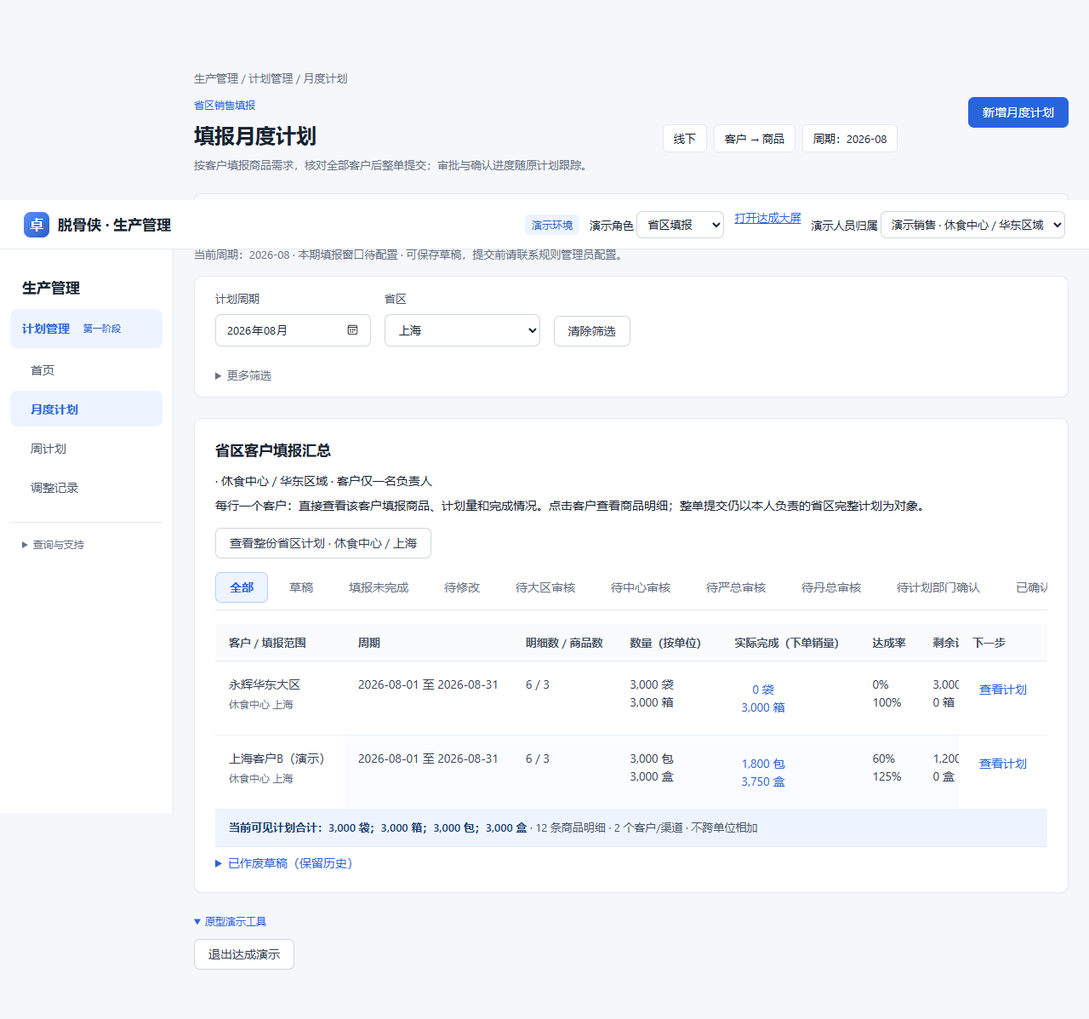
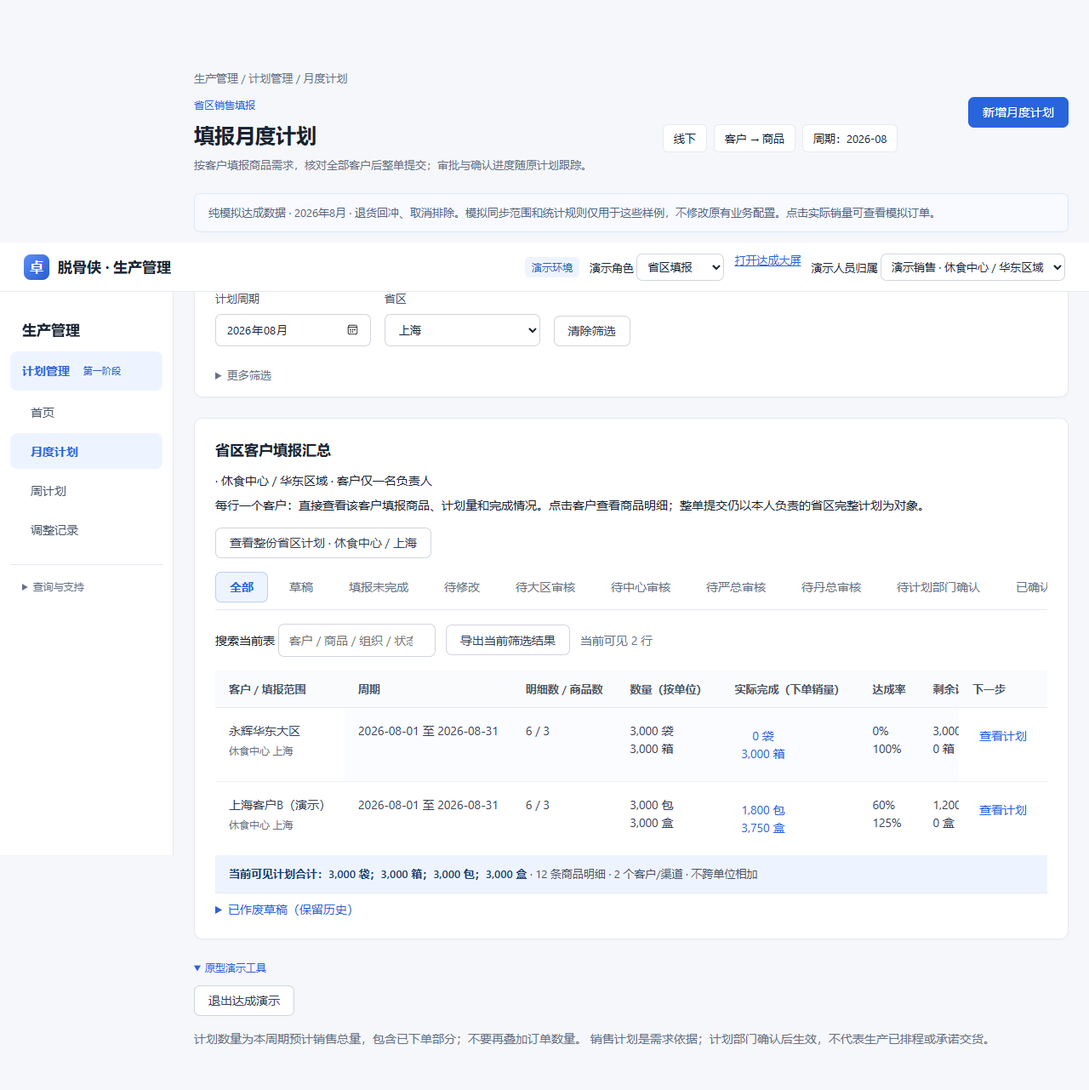
Auto sync 2026-10-14 08:39:49

diff --git a/09-设计与原型/销售计划管理/计划流程工作台.js b/09-设计与原型/销售计划管理/计划流程工作台.js
@@ -11,12 +11,12 @@
  function state(g){return FilingUX.state(g);}
  function customerSheets(xs){const map=new Map();xs.forEach(p=>{const k=sheetKey(p)+'|'+(p.business==='offline'?p.customer:p.channel);if(!map.has(k))map.set(k,{key:sheetKey(p),rows:[],name:p.business==='offline'?p.customer:p.channel,start:p.start,end:p.end,center:p.center,province:p.province,customerOnly:p.business==='offline'});map.get(k).rows.push(p);});return [...map.values()];}
  function planSheets(a){const d=a.data(),content=document.getElementById('content'),gs=customerSheets(d.plans.filter(p=>{const f=a.filters();return (f.achievementDemo?!!p.achievementDemo:!p.achievementDemo)&&(!f.demoCase||p.id===f.demoCase)&&PlanBusiness.canView(d,a.role(),p)&&p.business===f.business&&p.kind===f.kind&&(f.kind==='month'?p.start.slice(0,7)===f.cycle:p.start===f.cycle)&&['center','area','province','channel'].every(k=>f[k]==='all'||p[k]===f[k]);})),role=a.role();content.querySelectorAll(':scope>.card:not(.filters):not(.business-switch),:scope>.task-counts').forEach(e=>e.remove());content.querySelector('[data-filter=unit]')?.closest('label')?.remove();const meta=content.querySelector('.task-context-meta span:last-child');if(meta)meta.textContent='单位：按明细分别统计';const host=document.createElement('section');host.className='card';host.id='planSheets';host.innerHTML='<h2>'+(a.filters().business==='online'?'渠道填报汇总':'省区客户填报汇总')+'</h2><p>'+(a.filters().business==='online'?'每行一个渠道，点击查看该渠道的商品计划明细。':'每行一个客户：直接查看该客户填报商品、计划量和完成情况。点击客户查看商品明细；整单提交仍以本人负责的省区完整计划为对象。')+'</p><div class="summary-tabs">'+['全部','草稿','填报未完成','待修改','待大区审核','待中心审核','待严总审核','待丹总审核','待计划部门确认','已确认生效','已归档'].map((s,i)=>`<button data-sheet-status="${s}" aria-pressed="${i===0}">${s}</button>`).join('')+'</div><div class="table-wrap"><table><thead><tr><th>客户 / 填报范围</th><th>周期</th><th>明细数 / 商品数</th><th>数量（按单位）</th>'+PlanAchievement.headings()+'<th>状态</th><th>检查提醒</th><th>下一步</th></tr></thead><tbody>'+gs.map((g,i)=>{const totals=new Map();g.rows.forEach(p=>totals.set(p.unit,(totals.get(p.unit)||0)+p.qty));return `<tr data-sheet-row="${i}"><td>${E(g.name)}<small>${E(g.center||'线上渠道')} ${E(g.province||'')}</small></td><td>${g.start} 至 ${g.end}</td><td>${g.rows.length} / ${new Set(g.rows.map(p=>p.product)).size}</td><td>${[...totals].map(([u,q])=>num(q)+' '+E(u)).join('<br>')}</td>${PlanAchievement.cells(d,g.rows)}<td>${state(g)}<small>${E(FilingUX.pendingLabel(d,g.rows))}</small><small>${[...new Set(g.rows.map(p=>SalesPlan.status(d,p)))].map(s=>E(s)+' '+g.rows.filter(p=>SalesPlan.status(d,p)===s).length+'条').join(' / ')}</small></td><td>${g.rows.filter(p=>issue(d,p).length).length} 条需检查</td><td><button data-sheet="${i}">${FilingUX.next(g)}</button></td></tr>`;}).join('')+' '+(!gs.length?'<tr><td colspan="10" class="empty">本期暂无计划单，请新增计划。</td></tr>':'')+'</tbody></table></div>';content.append(host);host.querySelectorAll('[data-sheet-status]').forEach(b=>b.onclick=()=>{host.querySelectorAll('[data-sheet-status]').forEach(t=>t.setAttribute('aria-pressed',String(t===b)));host.querySelectorAll('[data-sheet-row]').forEach(tr=>tr.hidden=b.dataset.sheetStatus!=='全部'&&state(gs[Number(tr.dataset.sheetRow)])!==b.dataset.sheetStatus);});host.querySelectorAll('[data-sheet]').forEach(b=>b.onclick=()=>openSheet(a,gs[Number(b.dataset.sheet)]));FillQuantity.table(host.querySelector('table'),gs,'tr[data-sheet-row]');}
- function openSheet(a,g){const d=a.data(),ready=FilingUX.readiness(d,g),withdrawError=FilingUX.withdrawReason(d,g),editable=g.rows.filter(p=>(p.stage<0||p.rejected)&&!p.archived&&!PlanChange.pending(d,p));a.modal('计划单 · '+g.name,`<p>${g.start} 至 ${g.end} · ${state(g)}。修改只影响选中的明细；重新提交的驳回明细从首级重新审核，既有审批记录保留。</p><div class="row">${g.customerOnly?'<button id="wholeProvinceSheet" class="primary">查看整份省区计划 / 提交</button>':''}<button id="sheetSubmit" ${g.customerOnly||!editable.length||ready.errors.length?'disabled':''}>检查并提交 ${editable.length} 条待填明细</button><button id="sheetWithdraw" ${g.customerOnly||withdrawError?'disabled':''}>撤回整份计划</button></div><p>${g.customerOnly?'客户层只查看和编辑；整单操作请进入省区计划。':'应填 '+ready.customers.length+' · 已填 '+ready.filled+' · 无需求 '+ready.zero+' · 未填 '+ready.missing}</p><p class="notice">${E(ready.errors.join('；')||'提交检查通过，仍将按原有规则校验完整批次。')}</p><p>${E(withdrawError||'尚未审核时可撤回整份计划')}</p>${!g.customerOnly&&ready.errors.length?'<p>恢复办法：未填客户请返回列表新增计划或登记无需求；清单、归属或窗口问题请联系规则管理员；商品/数量错误请在下表修改。</p>':''}<p>${E(PlanOperations.basis)} ${E(PlanOperations.boundary)}</p><h3>检查与驳回指引</h3><div class="table-wrap"><table><thead><tr><th>明细</th><th>客户 / 渠道</th><th>商品 / 计划量</th>${PlanAchievement.headings()}<th>检查提醒</th><th>驳回意见 / 修改要求</th><th>操作</th></tr></thead><tbody>${g.rows.map(p=>`<tr><td>${E(p.id)}</td><td>${E(p.business==='online'?p.channel:p.customer)}</td><td>${E(SalesPlan.productName(d,p.product))} · ${p.qty} ${E(p.unit)}</td>${PlanAchievement.cells(d,[p])}<td>${E(issue(d,p).join('；')||'未发现提示项')}</td><td>${E(p.history.filter(h=>/驳回/.test(h.action)).at(-1)?.opinion||'—')}</td><td><button data-sheet-detail="${E(p.id)}">详情</button>${completed(p)&&!p.archived&&!p.productionLocked&&!PlanChange.pending(d,p)?`<button data-sheet-adjust="${E(p.id)}">申请数量调整</button>`:''}${p.stage>=0&&!p.rejected&&PlanChange.eligible(p)&&!p.productionLocked&&!PlanChange.pending(d,p)?`<button data-sheet-change="${E(p.id)}">开始前内容变更</button>`:''}${editable.includes(p)?`<button data-sheet-edit="${E(p.id)}">${p.rejected?'按要求修改':'编辑草稿'}</button>`:''}</td></tr>`).join('')}</tbody></table></div><p>已进入上级审核的内容不能直接修改，请使用开始前内容变更；已确认的数量变动进入计划部门确认。</p>`);const dialog=document.getElementById('dialog');FillQuantity.table(dialog.querySelector('table'),g.rows,'tr');FilingUX.bindDrafts(a,dialog);if(g.customerOnly){document.getElementById('sheetSubmit').hidden=true;document.getElementById('sheetWithdraw').hidden=true;}document.getElementById('wholeProvinceSheet')?.addEventListener('click',()=>openSheet(a,{...g,customerOnly:false,name:g.center+' / '+g.province,rows:d.plans.filter(p=>sheetKey(p)===g.key&&PlanBusiness.canView(d,a.role(),p)&&!!p.achievementDemo===!!g.rows[0].achievementDemo)}));dialog.querySelectorAll('[data-sheet-detail]').forEach(b=>b.onclick=()=>a.action('detail',b.dataset.sheetDetail));dialog.querySelectorAll('[data-sheet-edit]').forEach(b=>b.onclick=()=>SalesUX.batch(a,{edit:d.plans.find(p=>p.id===b.dataset.sheetEdit)}));dialog.querySelectorAll('[data-sheet-adjust]').forEach(b=>b.onclick=()=>a.action('adjust',b.dataset.sheetAdjust));dialog.querySelectorAll('[data-sheet-change]').forEach(b=>b.onclick=()=>PlanChange.open(a,d.plans.find(p=>p.id===b.dataset.sheetChange)));document.getElementById('sheetSubmit').onclick=()=>{if(g.customerOnly)return a.message('请进入整份省区计划，核对所有客户后整单提交。');const releaseError=BusinessRelease.submitGuard(d,g.rows[0]);if(releaseError)return a.message(releaseError);const errors=editable.map(p=>{const pr=d.products.find(q=>q.id===p.product);return PlanBusiness.fillGuard(d,a.role(),p)||(!['可填报','即将截止'].includes(PlanBusiness.periodState(d,p.kind,p.start))?'本期窗口未开放':'')||(!pr?.enabled||pr.from>p.start||pr.to&&pr.to<p.end?'商品不在有效范围':'')||(pr.scope!=='全部'&&pr.scope!==(p.business==='online'?'线上':'线下')?'商品不适用当前业务':'')||(!Number.isInteger(p.qty)||p.qty<=0?'数量必须为正整数':'');}).filter(Boolean);if(errors.length)return a.message(errors[0]+'，原计划保留。');const backup=structuredClone(d);editable.forEach(p=>{p.stage=0;p.rejected=false;a.log(p,'计划单提交首级审核',{sheetKey:g.key,qty:p.qty});});const sealError=BusinessRelease.seal(d,g.rows[0],a.role());if(sealError){Object.assign(d,backup);return a.message(sealError);}if(!a.persist()){Object.assign(d,backup);return;}dialog.close();a.render();a.message('计划单已提交，等待首级审核。');};document.getElementById('sheetWithdraw').onclick=()=>{if(g.customerOnly)return a.message('请从整份省区计划撤回，不能只撤回一个客户。');const withdrawalError=FilingUX.withdrawReason(d,g);if(withdrawalError)return a.message(withdrawalError);if(g.rows.some(p=>p.stage>0&&!p.rejected))return a.message('整份计划已有审核结果，不能只撤回部分明细。');const xs=g.rows.filter(p=>p.stage===0&&!p.rejected&&!PlanChange.pending(d,p)),backup=structuredClone(d);xs.forEach(p=>{p.stage=-1;a.log(p,'撤回尚未审核计划单明细');});for(const b of d.submissionBatches.filter(b=>xs.some(p=>p.submissionBatchId===b.id)&&b.status==='submitted'))b.status='withdrawn';if(!a.persist()){Object.assign(d,backup);return;}dialog.close();a.render();};}
+ function openSheet(a,g){const d=a.data(),ready=FilingUX.readiness(d,g),withdrawError=FilingUX.withdrawReason(d,g),editable=g.rows.filter(p=>(p.stage<0||p.rejected)&&!p.archived&&!PlanChange.pending(d,p));a.modal('计划单 · '+g.name,`<p>${g.start} 至 ${g.end} · ${state(g)}。修改只影响选中的明细；重新提交的驳回明细从首级重新审核，既有审批记录保留。</p><div class="row">${g.customerOnly?'<button id="wholeProvinceSheet" class="primary">查看整份省区计划 / 提交</button>':''}<button id="sheetSubmit" ${g.customerOnly||!editable.length||ready.errors.length?'disabled':''}>检查并提交 ${editable.length} 条待填明细</button><button id="sheetWithdraw" ${g.customerOnly||withdrawError?'disabled':''}>撤回整份计划</button></div><p>${g.customerOnly?'客户层只查看和编辑；整单操作请进入省区计划。':'应填 '+ready.customers.length+' · 已填 '+ready.filled+' · 无需求 '+ready.zero+' · 未填 '+ready.missing}</p><p class="notice">${E(ready.errors.join('；')||'提交检查通过，仍将按原有规则校验完整批次。')}</p><p>${E(withdrawError||'尚未审核时可撤回整份计划')}</p>${!g.customerOnly&&ready.errors.length?'<p>恢复办法：未填客户请返回列表新增计划或登记无需求；清单、归属或窗口问题请联系规则管理员；商品/数量错误请在下表修改。</p>':''}<p>${E(PlanOperations.basis)} ${E(PlanOperations.boundary)}</p><h3>检查与驳回指引</h3><div class="table-wrap"><table><thead><tr><th>明细</th><th>客户 / 渠道</th><th>商品 / 计划量</th>${PlanAchievement.headings()}<th>检查提醒</th><th>驳回意见 / 修改要求</th><th>操作</th></tr></thead><tbody>${g.rows.map(p=>`<tr><td>${E(p.id)}</td><td>${E(p.business==='online'?p.channel:p.customer)}</td><td>${E(SalesPlan.productName(d,p.product))} · ${p.qty} ${E(p.unit)}</td>${PlanAchievement.cells(d,[p])}<td>${E(issue(d,p).join('；')||'未发现提示项')}</td><td>${E((()=>{const h=p.history.filter(h=>/驳回/.test(h.action)).at(-1);return h?(h.by+' · '+h.at+' · '+(h.opinion||'历史记录缺少意见，请联系退回人')):'—';})())}</td><td><button data-sheet-detail="${E(p.id)}">详情</button>${completed(p)&&!p.archived&&!p.productionLocked&&!PlanChange.pending(d,p)?`<button data-sheet-adjust="${E(p.id)}">申请数量调整</button>`:''}${p.stage>=0&&!p.rejected&&PlanChange.eligible(p)&&!p.productionLocked&&!PlanChange.pending(d,p)?`<button data-sheet-change="${E(p.id)}">开始前内容变更</button>`:''}${editable.includes(p)?`<button data-sheet-edit="${E(p.id)}">${p.rejected?'按要求修改':'编辑草稿'}</button>`:''}</td></tr>`).join('')}</tbody></table></div><p>已进入上级审核的内容不能直接修改，请使用开始前内容变更；已确认的数量变动进入计划部门确认。</p>`);const dialog=document.getElementById('dialog');FillQuantity.table(dialog.querySelector('table'),g.rows,'tr');FilingUX.bindDrafts(a,dialog);if(g.customerOnly){document.getElementById('sheetSubmit').hidden=true;document.getElementById('sheetWithdraw').hidden=true;}document.getElementById('wholeProvinceSheet')?.addEventListener('click',()=>openSheet(a,{...g,customerOnly:false,name:g.center+' / '+g.province,rows:d.plans.filter(p=>sheetKey(p)===g.key&&PlanBusiness.canView(d,a.role(),p)&&!!p.achievementDemo===!!g.rows[0].achievementDemo)}));dialog.querySelectorAll('[data-sheet-detail]').forEach(b=>b.onclick=()=>a.action('detail',b.dataset.sheetDetail));dialog.querySelectorAll('[data-sheet-edit]').forEach(b=>b.onclick=()=>SalesUX.batch(a,{edit:d.plans.find(p=>p.id===b.dataset.sheetEdit)}));dialog.querySelectorAll('[data-sheet-adjust]').forEach(b=>b.onclick=()=>a.action('adjust',b.dataset.sheetAdjust));dialog.querySelectorAll('[data-sheet-change]').forEach(b=>b.onclick=()=>PlanChange.open(a,d.plans.find(p=>p.id===b.dataset.sheetChange)));document.getElementById('sheetSubmit').onclick=()=>{if(g.customerOnly)return a.message('请进入整份省区计划，核对所有客户后整单提交。');const releaseError=BusinessRelease.submitGuard(d,g.rows[0]);if(releaseError)return a.message(releaseError);const errors=editable.map(p=>{const pr=d.products.find(q=>q.id===p.product);return PlanBusiness.fillGuard(d,a.role(),p)||(!['可填报','即将截止'].includes(PlanBusiness.periodState(d,p.kind,p.start))?'本期窗口未开放':'')||(!pr?.enabled||pr.from>p.start||pr.to&&pr.to<p.end?'商品不在有效范围':'')||(pr.scope!=='全部'&&pr.scope!==(p.business==='online'?'线上':'线下')?'商品不适用当前业务':'')||(!Number.isInteger(p.qty)||p.qty<=0?'数量必须为正整数':'');}).filter(Boolean);if(errors.length)return a.message(errors[0]+'，原计划保留。');const backup=structuredClone(d);editable.forEach(p=>{p.stage=0;p.rejected=false;a.log(p,'计划单提交首级审核',{sheetKey:g.key,qty:p.qty});});const sealError=BusinessRelease.seal(d,g.rows[0],a.role());if(sealError){Object.assign(d,backup);return a.message(sealError);}if(!a.persist()){Object.assign(d,backup);return;}dialog.close();a.render();a.message('计划单已提交，等待首级审核。');};document.getElementById('sheetWithdraw').onclick=()=>{if(g.customerOnly)return a.message('请从整份省区计划撤回，不能只撤回一个客户。');const withdrawalError=FilingUX.withdrawReason(d,g);if(withdrawalError)return a.message(withdrawalError);if(g.rows.some(p=>p.stage>0&&!p.rejected))return a.message('整份计划已有审核结果，不能只撤回部分明细。');const xs=g.rows.filter(p=>p.stage===0&&!p.rejected&&!PlanChange.pending(d,p)),backup=structuredClone(d);xs.forEach(p=>{p.stage=-1;a.log(p,'撤回尚未审核计划单明细');});for(const b of d.submissionBatches.filter(b=>xs.some(p=>p.submissionBatchId===b.id)&&b.status==='submitted'))b.status='withdrawn';if(!a.persist()){Object.assign(d,backup);return;}dialog.close();a.render();};}
  function acceptance(a){const switcher=document.querySelector('.business-switch');const d=a.data(),f=a.filters(),list=d.plans.filter(p=>{return (!f.demoCase||p.id===f.demoCase)&&completed(p)&&PlanBusiness.canView(d,a.role(),p)&&p.business===f.business&&p.kind===f.kind&&(f.kind==='month'?p.start.slice(0,7)===f.cycle:p.start===f.cycle)&&['center','area','province','channel'].every(k=>f[k]==='all'||p[k]===f[k]);}),host=document.getElementById('content');host.innerHTML='<section class="card" id="acceptance"><h1>需求承接</h1><p>销售已确认不等于生产已承诺。月周独立；当前生产承接采用 '+(d.businessSettings.productionBasis==='week'?'周预测':'月预测')+'，另一周期仅供参考，不相加。库存、物料、产能及真实交付未接入，承诺需计划部门核实后录入。</p><div class="row"><label>预测类型<select id="acceptKind"><option value="month">月度</option><option value="week">周</option></select></label><label>周期<input id="acceptCycle" type="'+(f.kind==='month'?'month':'date')+'" value="'+E(f.cycle)+'"></label></div><div class="table-wrap"><table><thead><tr><th>销售需求</th><th>商品 / 单位</th><th>需求量</th><th>生产承诺 / 交期</th><th>缺口</th><th>实际交付</th><th>承接状态</th><th>操作</th></tr></thead><tbody>'+list.map(p=>{const r=d.acceptances[p.id],valid=r&&r.version===p.version,delivered=d.fulfillment.filter(x=>x.plan===p.id).reduce((s,x)=>s+x.qty,0);return `<tr><td>${E(p.id)} · V${p.version}<small>${E(p.business==='online'?p.channel:p.province+' / '+p.customer)}</small></td><td>${E(SalesPlan.productName(d,p.product))} / ${E(p.unit)}</td><td>${p.qty}</td><td>${valid?num(r.qty)+' / '+E(r.date):'待承接'}</td><td>${valid?num(p.qty-r.qty):'—'}</td><td>${num(delivered)}（人工记录）</td><td>${r&&!valid?'需求版本变化，待重评':valid?E(r.status==='已冻结执行'?(delivered>=r.qty&&r.qty>0?'交付完成':delivered>0?'部分交付':'已冻结，待交付'):r.status):'销售已确认，待评估'}</td><td><button data-accept="${p.id}">承接 / 跟踪</button></td></tr>`;}).join('')+' '+(!list.length?'<tr><td colspan="8" class="empty">本期暂无销售已确认需求。</td></tr>':'')+'</tbody></table></div></section>';if(switcher)host.prepend(switcher);document.getElementById('acceptKind').value=f.kind;document.getElementById('acceptKind').onchange=e=>{f.kind=e.target.value;f.cycle=f.kind==='month'?'2026-10':'2026-10-12';a.render();};document.getElementById('acceptCycle').onchange=e=>{f.cycle=e.target.value;a.render();};host.querySelectorAll('[data-accept]').forEach(b=>b.onclick=()=>offer(a,d.plans.find(p=>p.id===b.dataset.accept)));}
  function offer(a,p){const d=a.data(),r=d.acceptances[p.id],valid=r?.version===p.version,planner=a.role()==='计划部门',seller=a.role()===(p.business==='online'?'线上运营':'省区填报');a.modal('生产承接 · '+p.id,`<p>销售需求 ${p.qty} ${E(p.unit)} · V${p.version}。承诺与交付单独保存，不覆盖销售需求。</p><form id="acceptForm"><div class="grid"><label class="field">可承接数量<input name="qty" type="number" min="0" max="${p.qty}" step="1" value="${valid?r.qty:''}" required></label><label class="field">承诺交付日期<input name="date" type="date" value="${valid?E(r.date):''}" required></label><label class="field full">评估依据 / 缺口原因<textarea name="reason" required>${valid?E(r.reason):''}</textarea></label></div><p>需说明库存、在制、物料、产能及交期检查结果。不得用未验证数据自动承诺。</p><button ${!planner||p.kind!==d.businessSettings.productionBasis||p.productionLocked||p.archived?'disabled':''}>保存承诺，通知销售确认</button></form><label class="field">销售确认或退回意见<textarea id="offerOpinion"></textarea></label><div class="row"><button id="offerConfirm" ${!seller||!valid||r.status!=='待销售确认'?'disabled':''}>确认承诺及缺口</button><button id="offerReturn" ${!seller||!valid||r.status!=='待销售确认'?'disabled':''}>退回计划部门重评</button><button id="offerLock" ${!planner||!valid||r.status!=='销售已确认承诺'?'disabled':''}>冻结承诺供执行</button></div><form id="deliveryForm"><h3>实际交付记录（人工）</h3><label class="field">本次交付数量<input name="qty" type="number" min="1" step="1" required></label><label class="field">交付日期<input name="date" type="date" required></label><label class="field">交付凭据 / 备注<input name="note" required></label><button ${!planner||!p.productionLocked||!valid||r.status!=='已冻结执行'?'disabled':''}>登记交付</button></form><h3>承接及交付留痕</h3>${p.history.filter(h=>/承接|承诺|交付/.test(h.action)).map(h=>`<p>${E(h.at)} · ${E(h.by)} · ${E(h.action)} · ${E(h.opinion||'')}</p>`).join('')}`);
   const finish=()=>{document.getElementById('dialog').close();a.render();};document.getElementById('acceptForm').onsubmit=e=>{e.preventDefault();if(!planner||p.productionLocked||p.archived||p.kind!==d.businessSettings.productionBasis)return;const f=e.target,qty=Number(f.qty.value);if(!Number.isInteger(qty)||qty<0||qty>p.qty||!f.date.value||!f.reason.value.trim())return a.message('请填写有效承诺数量、交期和评估依据。');const backup=structuredClone(d);if(r)d.acceptanceHistory.push({plan:p.id,...structuredClone(r)});d.acceptances[p.id]={version:p.version,qty,date:f.date.value,reason:f.reason.value.trim(),status:'待销售确认',at:new Date().toISOString()};a.log(p,'计划部门承接承诺待销售确认',{opinion:f.reason.value,qty});PlanBusiness.notify(d,p.business==='online'?'线上运营':'省区填报','生产承接待确认',p.id);if(!a.persist()){Object.assign(d,backup);return;}finish();};for(const [id,status]of [['offerConfirm','销售已确认承诺'],['offerReturn','退回计划部门重评'],['offerLock','已冻结执行']])document.getElementById(id).onclick=()=>{if(!valid||(status==='已冻结执行'?(!planner||r.status!=='销售已确认承诺'):(!seller||r.status!=='待销售确认')))return;const opinion=document.getElementById('offerOpinion').value.trim();if(!opinion)return a.message('请填写确认、退回或冻结意见。');const backup=structuredClone(d);r.status=status;if(status==='已冻结执行')p.productionLocked=true;a.log(p,'承接承诺'+status,{opinion});PlanBusiness.notify(d,status==='退回计划部门重评'?'计划部门':p.business==='online'?'线上运营':'省区填报','承接承诺'+status,p.id);if(!a.persist()){Object.assign(d,backup);return;}finish();};document.getElementById('deliveryForm').onsubmit=e=>{e.preventDefault();if(!planner||!p.productionLocked||!valid||r.status!=='已冻结执行')return;const f=e.target,qty=Number(f.qty.value),sum=d.fulfillment.filter(x=>x.plan===p.id).reduce((s,x)=>s+x.qty,0);if(!Number.isInteger(qty)||qty<=0||sum+qty>r.qty||!f.date.value||f.date.value>new Intl.DateTimeFormat('sv-SE',{timeZone:'Asia/Shanghai'}).format(new Date())||!f.note.value.trim())return a.message('累计交付不得超过承诺，交付日期不能晚于今天，日期及凭据不能为空。');const backup=structuredClone(d);d.fulfillment.push({plan:p.id,version:p.version,qty,date:f.date.value,note:f.note.value.trim(),by:a.role(),at:new Date().toISOString()});a.log(p,'登记实际交付',{qty,opinion:f.note.value});if(!a.persist()){Object.assign(d,backup);return;}finish();};}
  function settings(a){const card=document.createElement('section');card.className='card';card.innerHTML='<h3>异常检查规则（演示）</h3><label class="field">较上期有效订单数量偏差百分比<input id="anomalyPercent" type="number" min="1" max="500" value="'+a.data().workflowSettings.anomalyPercent+'"></label><button id="saveAnomalyPercent">保存阈值</button>';document.getElementById('content').append(card);card.querySelector('button').onclick=()=>{if(a.role()!=='规则管理员')return;const n=Number(card.querySelector('input').value);if(!Number.isFinite(n)||n<1||n>500)return a.message('请填写1至500的阈值。');a.data().workflowSettings.anomalyPercent=n;if(a.persist())a.message('异常检查阈值已保存。');};}
  function decorate(a){if(document.body.dataset.page==='screen')return;initialize(a.data());if(a.view()==='businessRules')settings(a);const nav=document.querySelector('nav'),more=nav.querySelector('.nav-more')||document.createElement('details');if(!more.parentElement){more.className='nav-more';more.innerHTML='<summary>查询与配置</summary>';nav.append(more);}more.querySelector('summary').textContent='查询与配置';nav.querySelectorAll(':scope>button').forEach(b=>{if(b.dataset.planKind)return;if(b.dataset.view==='review'||b.dataset.view==='adjustments'&&a.role()==='计划部门'){b.textContent='我的审核';return;}if(b.getAttribute('aria-current')==='true'&&a.view()==='monthRecap'){b.textContent='预测复盘';return;}more.append(b);});let recap=[...more.querySelectorAll('button')].find(b=>b.textContent==='月周预测复盘');if(recap){recap.textContent='预测复盘';nav.insertBefore(recap,more);}const accept=document.createElement('button');accept.textContent='需求承接';accept.setAttribute('aria-current',String(a.view()==='acceptance'));accept.onclick=()=>a.setView('acceptance');nav.insertBefore(accept,more);if(['省区填报','线上运营'].includes(a.role())){nav.querySelectorAll('[data-plan-kind]').forEach(b=>b.textContent=b.dataset.planKind==='month'?'我的填报 · 月度':'我的填报 · 周');if(a.view()==='plans')planSheets(a);}if(a.view()==='acceptance')acceptance(a);if(a.view()==='monthRecap'){const host=document.getElementById('monthRecap'),section=document.createElement('section');section.className='card';section.innerHTML='<h3>复盘原因与下期改进</h3><p>按月份及业务分别记录，不覆盖预测数据。</p><label class="field">偏差原因 / 改进措施<textarea id="recapReason"></textarea></label><button id="saveRecapReason">保存复盘说明</button>';host.after(section);const key=()=>a.filters().business+':'+document.getElementById('recapMonth').value;const load=()=>document.getElementById('recapReason').value=a.data().recapReasons[key()]?.text||'';load();document.getElementById('recapMonth').addEventListener('change',load);document.getElementById('saveRecapReason').onclick=()=>{const text=document.getElementById('recapReason').value.trim();if(!text)return a.message('请填写复盘原因及改进措施。');a.data().recapReasons[key()]={text,by:a.role(),at:new Date().toISOString()};if(a.persist())a.message('复盘说明已保存，下期可查询参考。');};}}
- function enhanceBatch(a,f,x){const bar=document.createElement('section');bar.className='notice';bar.innerHTML='<strong>填报顺序：① 周期与范围 → ② 查询上期销售 → ③ 商品与数量 → ④ 检查提交</strong><p>月、周是独立销售预测；草稿可直接修改，提交后进入审核。</p>';f.prepend(bar);const steps=document.createElement('div');steps.className='summary-tabs';steps.innerHTML=['周期与范围','查询上期销售','商品与数量','检查提交'].map((s,i)=>'<button type="button" data-fill-step="'+i+'">'+(i+1)+' · '+s+'</button>').join('');const priorKey=Object.keys(a.data().recapReasons||{}).filter(k=>k.startsWith(x.business+':')&&k.split(':')[1]<x.start.slice(0,7)).sort().at(-1);if(priorKey){const p=document.createElement('p');p.textContent='上期复盘参考：'+a.data().recapReasons[priorKey].text;bar.append(p);}bar.append(steps);steps.querySelectorAll('button').forEach(b=>b.onclick=()=>{const target=[f.start,document.getElementById('openSalesHistory'),document.getElementById('lines'),f.querySelector('button[type=submit]')][Number(b.dataset.fillStep)];target?.scrollIntoView({block:'center'});target?.focus();});const submit=f.onsubmit;f.onsubmit=e=>{e.preventDefault();if(!f.start.value||!f.end.value||f.start.value>f.end.value)return a.message('请先填写有效周期。');const rows=x.lines;if(rows.some(l=>!l.product||!Number.isInteger(Number(l.qty))||Number(l.qty)<=0))return a.message('请补齐商品及正整数数量。');const dialog=document.createElement('dialog');dialog.setAttribute('aria-label','提交前检查');dialog.innerHTML='<h2>提交前检查</h2><p>共 '+rows.length+' 条商品明细，提交后等待审核；异常提醒不自动修改数量。</p><div class="table-wrap"><table><thead><tr><th>客户 / 渠道</th><th>商品</th><th>数量</th></tr></thead><tbody>'+rows.map(l=>`<tr><td>${E(x.business==='online'?x.channel:l.customer||x.customer)}</td><td>${E(SalesPlan.productName(a.data(),l.product))}</td><td>${E(l.qty)} ${E(l.unit)}</td></tr>`).join('')+'</tbody></table></div><div class="row"><button id="confirmBatchSubmit">确认提交</button><button id="returnBatchEdit">返回修改</button></div>';FillQuantity.table(dialog.querySelector('table'),rows,'tr');document.body.append(dialog);dialog.addEventListener('close',()=>dialog.remove(),{once:true});dialog.querySelector('#returnBatchEdit').onclick=()=>dialog.close();dialog.querySelector('#confirmBatchSubmit').onclick=()=>{dialog.close();submit({preventDefault(){}});};dialog.showModal();};}
+ function enhanceBatch(a,f,x){const bar=document.createElement('section');bar.className='notice';bar.innerHTML='<strong>填报顺序：① 周期与范围 → ② 查询上期销售 → ③ 商品与数量 → ④ 检查提交</strong><p>月、周是独立销售预测；草稿可直接修改，提交后进入审核。</p>';f.prepend(bar);const steps=document.createElement('div');steps.className='summary-tabs';steps.innerHTML=['周期与范围','查询上期销售','商品与数量','检查提交'].map((s,i)=>'<button type="button" data-fill-step="'+i+'">'+(i+1)+' · '+s+'</button>').join('');const priorKey=Object.keys(a.data().recapReasons||{}).filter(k=>k.startsWith(x.business+':')&&k.split(':')[1]<x.start.slice(0,7)).sort().at(-1);if(priorKey){const p=document.createElement('p');p.textContent='上期复盘参考：'+a.data().recapReasons[priorKey].text;bar.append(p);}bar.append(steps);steps.querySelectorAll('button').forEach(b=>b.onclick=()=>{const target=[f.start,document.getElementById('openSalesHistory'),document.getElementById('lines'),f.querySelector('button[type=submit]')][Number(b.dataset.fillStep)];target?.scrollIntoView({block:'center'});target?.focus();});const submit=f.onsubmit;f.onsubmit=e=>{e.preventDefault();if(!f.start.value||!f.end.value||f.start.value>f.end.value)return a.message('请先填写有效周期。');const rows=x.lines;if(rows.some(l=>!l.product||!Number.isInteger(Number(l.qty))||Number(l.qty)<=0))return a.message('请补齐商品及正整数数量。');const dialog=document.createElement('dialog');dialog.setAttribute('aria-label','提交前检查');dialog.innerHTML='<h2>提交前检查</h2><p>'+E(PlanOperations.basis)+'</p><p>共 '+rows.length+' 条商品明细，提交后等待审核；异常提醒不自动修改数量。</p><div class="table-wrap"><table><thead><tr><th>客户 / 渠道</th><th>商品</th><th>数量</th></tr></thead><tbody>'+rows.map(l=>`<tr><td>${E(x.business==='online'?x.channel:l.customer||x.customer)}</td><td>${E(SalesPlan.productName(a.data(),l.product))}</td><td>${E(l.qty)} ${E(l.unit)}</td></tr>`).join('')+'</tbody></table></div><div class="row"><button id="confirmBatchSubmit">确认提交</button><button id="returnBatchEdit">返回修改</button></div>';FillQuantity.table(dialog.querySelector('table'),rows,'tr');document.body.append(dialog);dialog.addEventListener('close',()=>dialog.remove(),{once:true});dialog.querySelector('#returnBatchEdit').onclick=()=>dialog.close();dialog.querySelector('#confirmBatchSubmit').onclick=()=>{dialog.close();submit({preventDefault(){}});};dialog.showModal();};}
  window.PlanWorkflow={openSheet,initialize,sheetKey,sheets,issue,decorate,enhanceBatch};
 })();

diff --git a/09-设计与原型/销售计划管理/计划操作补充.js b/09-设计与原型/销售计划管理/计划操作补充.js
@@ -7,8 +7,9 @@
  return '<p class="muted reference-summary">参考区间：'+E(range.from||'未选择')+' 至 '+E(range.to||'未选择')+' · 历史有效销量：'+(qty===null?'待同步 / 待确认':N(qty)+' '+E(line.unit))+' · 日均销量：'+(avg===null?'待确认':N(avg)+' '+E(line.unit)+'/天')+' · 同周期天数参考量：'+(estimate===null?'待确认':N(estimate)+' '+E(line.unit))+' · 计划偏差：'+(delta===null?'—':N(delta)+'%')+'<br>'+E(simulated?'纯模拟走势不作为正式参考，不引用或回写。':trust(d,b,range.from,range.to))+'<br>参考量按历史日均 × 本次计划天数估算，仅供判断，不自动改变计划；省区辅助参考不代表该客户销量。</p>';
  }
  function csv(table){const data=[...table.querySelectorAll('thead tr,tbody tr')].filter(tr=>!tr.hidden&&tr.style.display!=='none').map(tr=>[...tr.children].map(td=>td.innerText.trim()));if(!data.length)return '';return '\ufeff'+data.map(row=>row.map(value=>{const safe=/^[\s]*[=+\-@]/.test(value)?"'"+value:value;return '"'+safe.replace(/"/g,'""')+'"';}).join(',')).join('\r\n');}
- function tools(root,a){root.querySelectorAll('table').forEach((table,index)=>{if(table.dataset.scopeTools||!table.querySelector('tbody')||!table.querySelector('thead'))return;table.dataset.scopeTools='true';const bar=document.createElement('div');bar.className='row';bar.innerHTML='<label>搜索当前表 <input type="search" aria-label="搜索当前表 '+(index+1)+'" placeholder="客户 / 商品 / 组织 / 状态"></label><button type="button">导出当前筛选结果</button><span class="muted" role="status"></span>';const wrap=table.closest('.table-wrap')||table;wrap.before(bar);const input=bar.querySelector('input'),status=bar.querySelector('span');let last='';const paint=()=>{const q=input.value.trim().toLocaleLowerCase(),rows=[...table.querySelectorAll('tbody tr')];rows.forEach(tr=>{const display=q&&!tr.textContent.toLocaleLowerCase().includes(q)?'none':'';if(tr.style.display!==display)tr.style.display=display;});const text='当前可见 '+rows.filter(tr=>!tr.hidden&&tr.style.display!=='none'&&!tr.querySelector('.empty')).length+' 行'+(q?' · 无结果时请清除搜索':'');if(last!==text){status.textContent=text;last=text;}};input.oninput=paint;bar.querySelector('button').onclick=()=>{const value=csv(table);if(!value||![...table.querySelectorAll('tbody tr')].some(tr=>!tr.hidden&&tr.style.display!=='none'&&!tr.querySelector('.empty')))return a.message('当前筛选没有可导出的数据。请清除搜索或调整筛选。');const url=URL.createObjectURL(new Blob([value],{type:'text/csv;charset=utf-8'})),link=document.createElement('a');link.href=url;link.download='销售计划-'+a.role()+'-'+a.view()+'-当前筛选.csv';link.click();setTimeout(()=>URL.revokeObjectURL(url),1000);};const observer=new MutationObserver(paint);observer.observe(table.querySelector('tbody'),{childList:true,subtree:true,attributes:true,attributeFilter:['hidden']});paint();});}
+ function tools(root,a){root.querySelectorAll('table').forEach((table,index)=>{if(table.dataset.scopeTools||!table.querySelector('tbody')||!table.querySelector('thead'))return;table.dataset.scopeTools='true';const bar=document.createElement('div');bar.className='row';bar.innerHTML='<label>搜索当前表 <input type="search" aria-label="搜索当前表 '+(index+1)+'" placeholder="客户 / 商品 / 组织 / 状态"></label><button type="button">导出当前筛选结果</button><span class="muted" role="status"></span>';const wrap=table.closest('.table-wrap')||table;wrap.before(bar);const input=bar.querySelector('input'),status=bar.querySelector('span');let last='';const paint=()=>{const q=input.value.trim().toLocaleLowerCase(),rows=[...table.querySelectorAll('tbody tr')];rows.forEach(tr=>{const display=q&&!tr.textContent.toLocaleLowerCase().includes(q)?'none':'';if(tr.style.display!==display)tr.style.display=display;if(display==='none'){tr.querySelectorAll('input[type=checkbox]:checked').forEach(box=>{box.checked=false;box.dispatchEvent(new Event('change',{bubbles:true}));});}});const text='当前可见 '+rows.filter(tr=>!tr.hidden&&tr.style.display!=='none'&&!tr.querySelector('.empty')).length+' 行'+(q?' · 无结果时请清除搜索':'');if(last!==text){status.textContent=text;last=text;}};input.oninput=paint;bar.parentElement.addEventListener('change',()=>queueMicrotask(paint));bar.querySelector('button').onclick=()=>{const value=csv(table);if(!value||![...table.querySelectorAll('tbody tr')].some(tr=>!tr.hidden&&tr.style.display!=='none'&&!tr.querySelector('.empty')))return a.message('当前筛选没有可导出的数据。请清除搜索或调整筛选。');const url=URL.createObjectURL(new Blob([value],{type:'text/csv;charset=utf-8'})),link=document.createElement('a');link.href=url;link.download='销售计划-'+a.role()+'-'+a.view()+'-当前筛选.csv';link.click();setTimeout(()=>URL.revokeObjectURL(url),1000);};const observer=new MutationObserver(paint);observer.observe(table.querySelector('tbody'),{childList:true,subtree:true,attributes:true,attributeFilter:['hidden']});paint();});}
  function progress(d,p){const route=SalesPlan.chain(p),current=p.rejected?'销售修改后重新提交':SalesPlan.effective(p)?'已确认生效':p.stage<0?'销售填报':route[p.stage]||'计划部门确认',reject=(p.history||[]).filter(h=>/驳回/.test(h.action)).at(-1);return '<section class="plan-process"><h3>流程进度与修改指引</h3><p>流转路径：'+E((p.business==='online'?['线上运营']:['省区填报']).concat(route,['计划部门确认']).join(' → '))+'</p><p>当前处理：'+E(current)+' · 当前执行版本：V'+E(p.version)+'</p>'+(reject?'<p>最近退回：'+E(reject.by)+' · '+E(reject.at)+'<br>修改要求：'+E(reject.opinion||'历史记录缺少意见，请联系退回人核实')+'<br>请按要求修改对应明细；重新整单提交后从首级审核，历史审批与修改前后记录保留。</p>':'')+'<p class="muted">'+E(basis)+'<br>'+E(boundary)+'<br>'+E(trust(d,p.business,p.start,p.end))+'</p></section>';}
- function decorate(a){if(document.body.dataset.page==='screen')return;if(['home','plans','review','acceptance','adjustments','demand'].includes(a.view())){tools(document.getElementById('content'),a);if(['home','plans','acceptance'].includes(a.view())){const note=document.createElement('p');note.className='muted';note.textContent=basis+' '+boundary;document.getElementById('content').append(note);}}}
+ let pageObserver;
+ function decorate(a){pageObserver?.disconnect();if(document.body.dataset.page==='screen')return;if(['home','plans','review','acceptance','adjustments','demand'].includes(a.view())){const root=document.getElementById('content');tools(root,a);pageObserver=new MutationObserver(()=>tools(root,a));pageObserver.observe(root,{childList:true,subtree:true});if(['home','plans','acceptance'].includes(a.view())){const note=document.createElement('p');note.className='muted';note.textContent=basis+' '+boundary;root.append(note);}if(['home','plans','review','acceptance'].includes(a.view())){const f=a.filters(),note=document.createElement('p');note.className='muted';note.dataset.trust='true';note.textContent=trust(a.data(),f.business,f.kind==='month'?f.cycle+'-01':f.cycle,f.kind==='month'?new Date(Number(f.cycle.slice(0,4)),Number(f.cycle.slice(5,7)),0).toLocaleDateString('sv-SE'):new Date(Date.parse(f.cycle)+6*86400000).toISOString().slice(0,10));root.append(note);}}}
  window.PlanOperations={basis,boundary,trust,reference,csv,tools,progress,decorate};
 })();

diff --git a/09-设计与原型/销售计划管理/计划实际达成.js b/09-设计与原型/销售计划管理/计划实际达成.js
@@ -6,7 +6,7 @@
  function cell(d,xs,kind){return aggregate(d,xs).map(g=>{if(kind==='actual')return (g.unknown?(g.plans.every(p=>!SalesPlan.effective(p))?'未生效':'待同步 / 待确认')+(g.known?'<small>已具备条件部分：'+N(g.actual)+' '+E(g.unit)+'</small>':''):N(g.actual)+' '+E(g.unit));if(g.unknown)return g.plans.every(p=>!SalesPlan.effective(p))?'—（未生效）':'待同步 / 待确认';if(kind==='rate')return g.qty?N(g.actual/g.qty*100)+'%':'—';return N(Math.max(0,g.qty-g.actual))+' '+E(g.unit)+(g.actual>g.qty?'（超额 '+N(g.actual-g.qty)+'）':'');}).join('<br>')||'无计划';}
  function headings(){return '<th>实际完成（下单销量）</th><th>达成率</th><th>剩余计划量 / 超额</th>';}
  function cells(d,xs){const actual=xs.some(p=>SalesPlan.effective(p))?'<button type="button" class="achievement-value" data-achievement-plans="'+E(JSON.stringify(xs.map(p=>p.id)))+'" aria-label="查看本行计划实际销量及对应订单">'+cell(d,xs,'actual')+'</button>':cell(d,xs,'actual');return '<td>'+actual+'</td><td>'+cell(d,xs,'rate')+'</td><td>'+cell(d,xs,'remaining')+'</td>';}
- function open(a,ids){const d=a.data(),xs=d.plans.filter(p=>ids.includes(p.id)&&PlanBusiness.canView(d,a.role(),p));if(!xs.length)return a.message('当前范围没有可查看的计划。');a.modal('对应销售订单','<p>按下单时间匹配当前计划。销量和达成率保留在原计划行，此处仅查看对应订单及售后记录。</p><h3>匹配订单明细</h3><div class="table-wrap"><table><thead><tr><th>订单 / 来源</th><th>对应计划</th><th>下单日期</th><th>商品</th><th>数量 / 单位</th><th>售后退货</th><th>状态</th></tr></thead><tbody>'+xs.flatMap(p=>measure(d,p).orders.map(o=>'<tr><td>'+E(o.id)+' / '+E(o.platform||o.source)+'</td><td>'+E(p.id)+'</td><td>'+E(SalesPlan.orderDay(o))+'</td><td>'+E(SalesPlan.productName(d,o.product))+'</td><td>'+N(o.qty)+' '+E(o.unit)+'</td><td>'+N(o.returned||0)+'</td><td>'+E(o.status)+'</td></tr>')).join('')+(xs.some(p=>measure(d,p).orders.length)?'':'<tr><td colspan="7">没有匹配订单；同步未完整确认时，不代表销量为零。</td></tr>')+'</tbody></table></div>');}
+ function open(a,ids){const d=a.data(),xs=d.plans.filter(p=>ids.includes(p.id)&&PlanBusiness.canView(d,a.role(),p));if(!xs.length)return a.message('当前范围没有可查看的计划。');a.modal('对应销售订单','<p>'+[...new Set(xs.map(p=>PlanOperations.trust(p.achievementDemo?AchievementDemo.context(d):d,p.business,p.start,p.end)))].map(E).join('<br>')+'</p><p>按下单时间匹配当前计划。销量和达成率保留在原计划行，此处仅查看对应订单及售后记录。</p><h3>匹配订单明细</h3><div class="table-wrap"><table><thead><tr><th>订单 / 来源</th><th>对应计划</th><th>下单日期</th><th>商品</th><th>数量 / 单位</th><th>售后退货</th><th>状态</th></tr></thead><tbody>'+xs.flatMap(p=>measure(d,p).orders.map(o=>'<tr><td>'+E(o.id)+' / '+E(o.platform||o.source)+'</td><td>'+E(p.id)+'</td><td>'+E(SalesPlan.orderDay(o))+'</td><td>'+E(SalesPlan.productName(d,o.product))+'</td><td>'+N(o.qty)+' '+E(o.unit)+'</td><td>'+N(o.returned||0)+'</td><td>'+E(o.status)+'</td></tr>')).join('')+(xs.some(p=>measure(d,p).orders.length)?'':'<tr><td colspan="7">没有匹配订单；同步未完整确认时，不代表销量为零。</td></tr>')+'</tbody></table></div>');}
  function decorate(a){api=a;if(document.body.dataset.page==='screen')return;if(!document._achievementBound){document._achievementBound=true;document.addEventListener('click',e=>{const b=e.target.closest('[data-achievement-plans]');if(!b)return;try{open(api,JSON.parse(b.dataset.achievementPlans));}catch(err){api.message('达成明细暂时无法加载，请刷新后重试。');}});}}
 
  window.PlanAchievement={measure,aggregate,cell,headings,cells,open,decorate};
